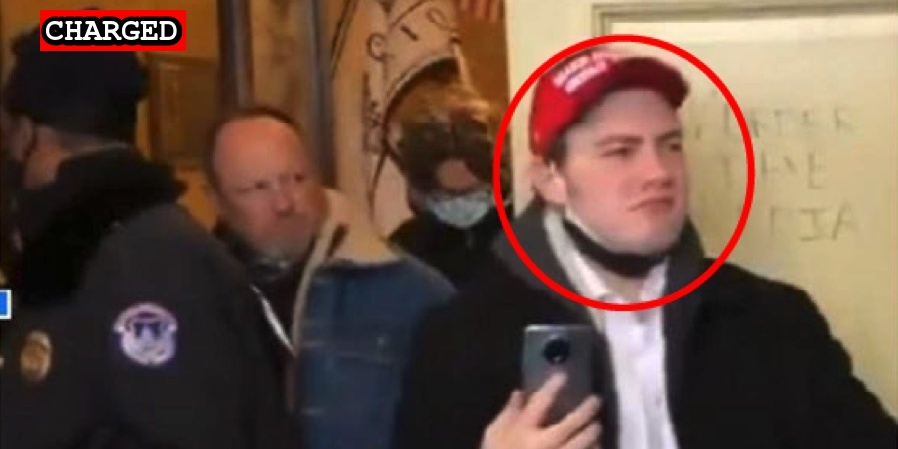
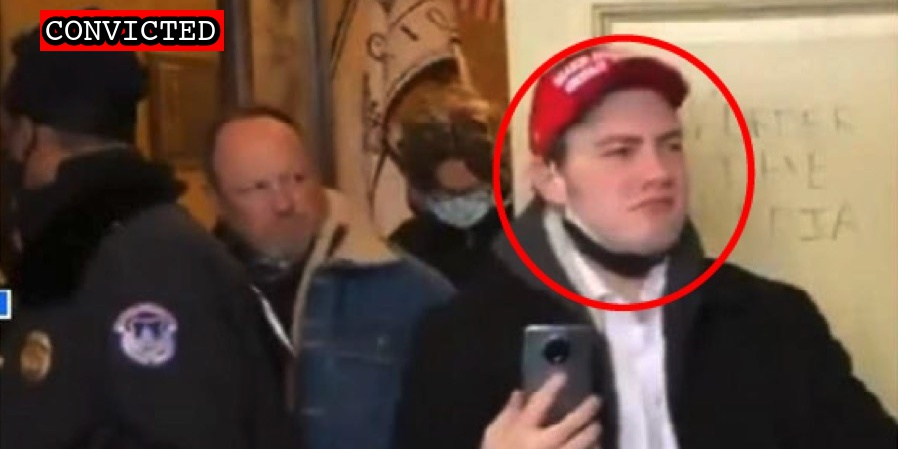
Latest plea

Changed region(s): [[0.0312, 0.0, 0.2494, 0.1247]]

diff --git a/docs/_suspects/dovid-schwartzberg.md b/docs/_suspects/dovid-schwartzberg.md
@@ -4,15 +4,15 @@ lastName: Schwartzberg
 hashtag: DovidSchwartzberg
 aka:
 residence: New York
-status: Charged
+status: Convicted
 date: 2021-04-16
 charged: 2021-04-16
 indicted:
-convicted: 
+convicted: 2022-03-04
 sentenced:
 dismissed: 
 deceased:
-plea_hearing:
+plea_hearing: 2022-03-04
 sentencing:
 age: 19
 occupation: Unemployed
@@ -34,10 +34,15 @@ published: true
 caseNumber: 1:21-cr-338
 videos:
 charges:
+- code: 18 USC § 5104(e)(2)(G)
+  title: Parading, demonstrating or picketing in a Capitol building
+  url: https://www.law.cornell.edu/uscode/text/40/5104
+  felony: false
 sentence:
 ---
 - [News Report](https://www.nbcnewyork.com/news/local/crime-and-courts/19-year-old-brooklynite-accused-of-participating-in-u-s-capitol-siege/3009290/)
 - [Complaint](https://www.justice.gov/usao-dc/case-multi-defendant/file/1388391/download)
-- [Statement of Facts](https://www.justice.gov/usao-dc/case-multi-defendant/file/1388396/download)
+- [Statement of Facts](https://www.justice.gov/usao-dc/case-multi-defendant/file/1480146/download)
 - [Incriminating Evidence (VIDEO)](https://twitter.com/mattmiller757/status/1346944869588230144?s=20)
 - [Information](https://www.justice.gov/usao-dc/case-multi-defendant/file/1413471/download)
+- [Plea Agreement](https://www.justice.gov/usao-dc/case-multi-defendant/file/1480141/download)
